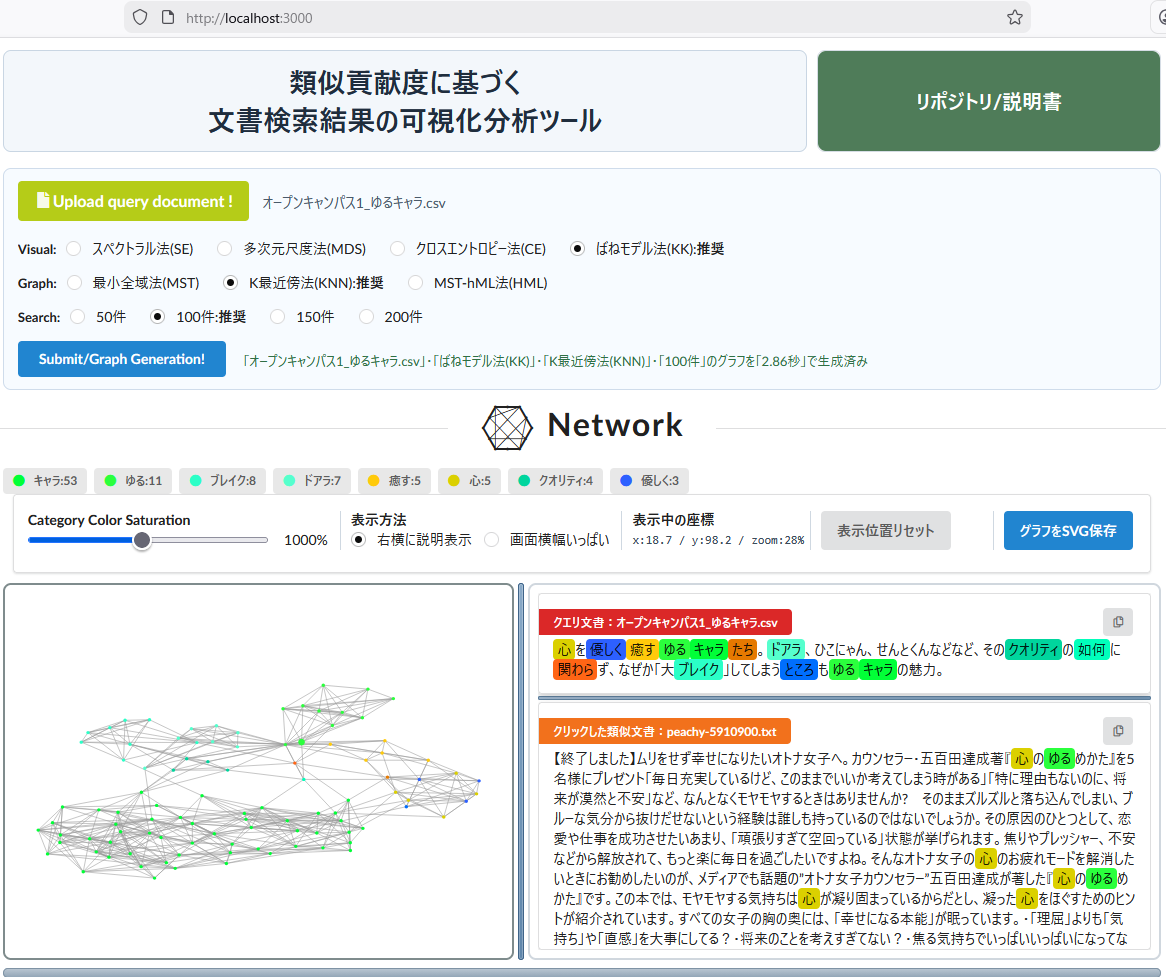
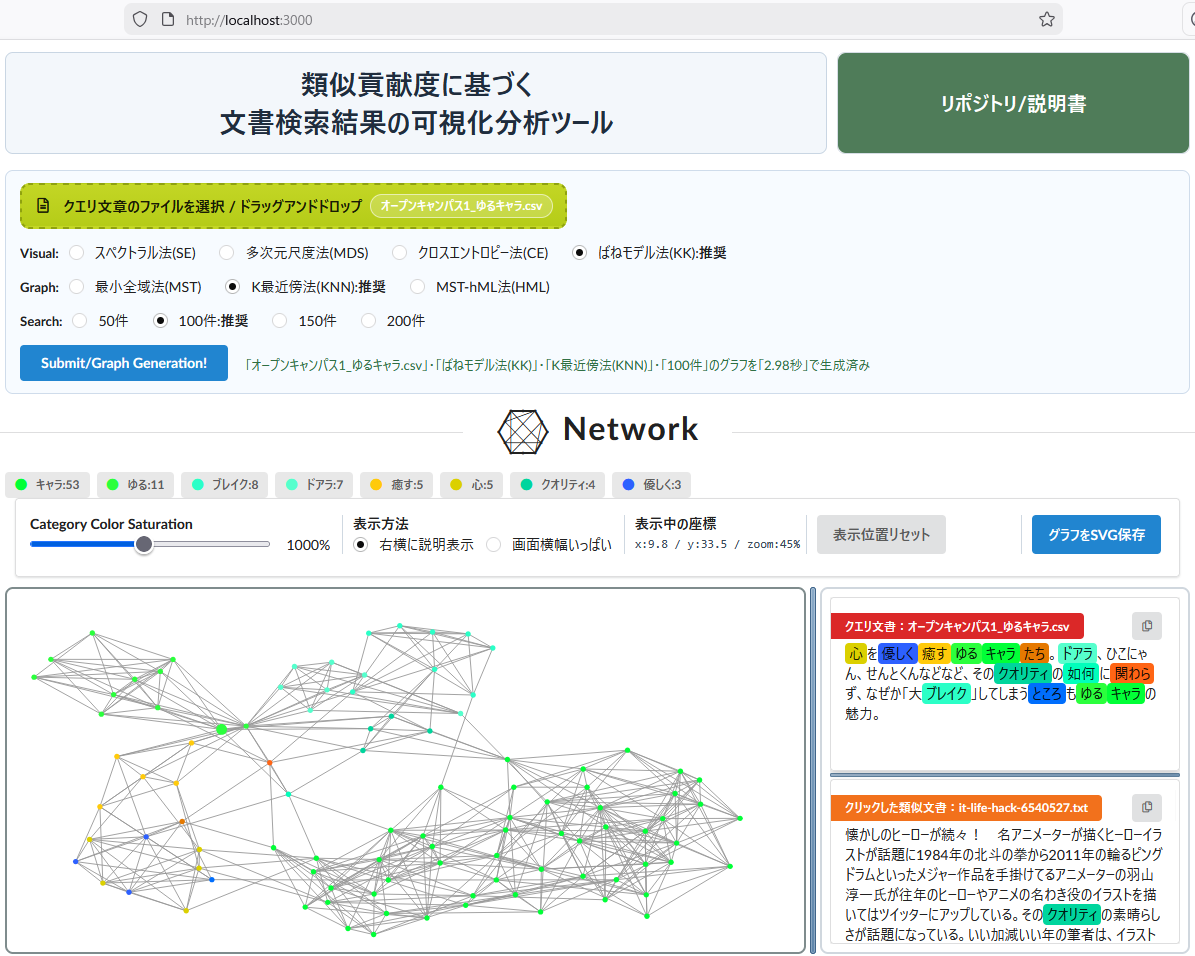
クエリ文章のアップロードでドラッグアンドドロップを可能に

Changed region(s): [[0.0, 0.0, 1.0, 1.0], [0.7719, 0.091, 0.9262, 0.1213]]

diff --git a/client/index.html b/client/index.html
@@ -99,18 +99,56 @@
                 width: auto !important;
                 min-width: 0 !important;
             }
-            .upload-button {
-                min-height: 46px;
-                padding: 12px 16px !important;
-                font-size: 16px !important;
-                display: inline-flex !important;
+            .upload-drop-zone {
+                margin-top: 4px;
+                border: 2px dashed #8fa20f;
+                border-radius: 10px;
+                background: linear-gradient(180deg, #c3d625 0%, #b5cc18 100%);
+                color: #ffffff;
+                padding: 9px 12px;
+                font-size: 13px;
+                line-height: 1.35;
+                user-select: none;
+                cursor: pointer;
+                transition: border-color 120ms ease, background 120ms ease, box-shadow 120ms ease;
+                display: inline-block;
+                width: fit-content;
+                max-width: 100%;
+            }
+            .upload-drop-main {
+                display: flex;
                 align-items: center;
+                justify-content: flex-start;
+                gap: 8px;
+                font-size: 15px;
+                font-weight: 700;
+            }
+            .upload-drop-main-left {
+                display: inline-flex;
+                align-items: center;
+                gap: 8px;
+                min-width: 0;
+            }
+            .upload-drop-sub {
+                margin-top: 2px;
+                color: rgba(255, 255, 255, 0.92);
+                font-size: 12px;
             }
             .upload-file-name {
-                margin-left: 10px;
-                font-size: 14px;
-                color: #4a5a6a;
-                vertical-align: middle;
+                display: inline-block;
+                background: rgba(255, 255, 255, 0.2);
+                border: 1px solid rgba(255, 255, 255, 0.55);
+                border-radius: 999px;
+                padding: 3px 10px;
+                font-size: 12px;
+                color: #ffffff;
+                white-space: nowrap;
+            }
+            .upload-drop-zone.is-dragover {
+                border-color: #75880b;
+                background: linear-gradient(180deg, #b8cc15 0%, #a4ba10 100%);
+                color: #ffffff;
+                box-shadow: 0 0 0 2px rgba(117, 136, 11, 0.28);
             }
             .generation-status {
                 margin-left: 10px;
@@ -564,12 +602,16 @@
             <!-- file uploader -->
             <form class="ui form" onsubmit="handleFormSubmit(event)">
                 <div class="field">
-                    <input type="file" id="template-invisible-upload" class="ui invisible file input">
-                    <label for="template-invisible-upload" class="ui olive icon button upload-button">
-                        <i class="file icon"></i>
-                        Upload query document !
+                    <input type="file" id="template-invisible-upload" class="ui invisible file input" accept=".csv,text/csv">
+                    <label for="template-invisible-upload" id="template-upload-drop-zone" class="upload-drop-zone">
+                        <div class="upload-drop-main">
+                            <span class="upload-drop-main-left">
+                                <i class="file alternate outline icon"></i>
+                                <span>クエリ文章のファイルを選択 / ドラッグアンドドロップ</span>
+                            </span>
+                            <span id="selected-file-name" class="upload-file-name">未選択</span>
+                        </div>
                     </label>
-                    <span id="selected-file-name" class="upload-file-name">未選択</span>
                 </div>
                 <!-- network selector -->
                 <div class="inline fields">
@@ -778,6 +820,7 @@
             let detachDocRatioSplitterHandlers = null;
             let viewCoordsState = { tx: 0, ty: 0, scale: 1 };
             let experimentCancelRequested = false;
+            let selectedUploadFile = null;
 
             function getNowIsoString()
             {
@@ -997,17 +1040,22 @@
 
             function getCurrentSelectedFileName()
             {
+                const file = getSelectedUploadFile();
+                return file ? file.name : "未選択";
+            }
+
+            function getSelectedUploadFile()
+            {
                 const fileInput = document.querySelector("#template-invisible-upload");
                 const file = fileInput && fileInput.files && fileInput.files[0] ? fileInput.files[0] : null;
-                return file ? file.name : "未選択";
+                return file || selectedUploadFile || null;
             }
 
             function updateExperimentReadyState()
             {
                 const workspace = document.querySelector(graphWorkspaceId);
                 if (!workspace) return;
-                const fileInput = document.querySelector("#template-invisible-upload");
-                const hasFile = Boolean(fileInput && fileInput.files && fileInput.files[0]);
+                const hasFile = Boolean(getSelectedUploadFile());
                 workspace.classList.toggle("is-experiment-ready", hasFile);
             }
 
@@ -1071,8 +1119,7 @@
                     return;
                 }
 
-                const fileInput = document.querySelector("#template-invisible-upload");
-                const file = fileInput && fileInput.files && fileInput.files[0] ? fileInput.files[0] : null;
+                const file = getSelectedUploadFile();
                 if (!file) {
                     alert("先にクエリ文書を選択してください。");
                     return;
@@ -2098,6 +2145,7 @@
                     boxForm.innerHTML  = '';
                     boxForm.appendChild(cloneForm);
                     bindUploadFileNameLabel();
+                    bindUploadDropZone();
                 }
             }
 
@@ -2119,12 +2167,67 @@
 
                 const renderFileName = () => {
                     const selected = fileInput.files && fileInput.files.length > 0 ? fileInput.files[0] : null;
+                    selectedUploadFile = selected || null;
                     nameLabel.textContent = selected ? selected.name : "未選択";
                     updateExperimentReadyState();
                     renderDebugPanel();
                 };
                 fileInput.addEventListener("change", renderFileName);
                 renderFileName();
+            }
+
+            function bindUploadDropZone()
+            {
+                const dropZone = document.querySelector("#template-upload-drop-zone");
+                const fileInput = document.querySelector("#template-invisible-upload");
+                const nameLabel = document.querySelector("#selected-file-name");
+                if (!dropZone || !fileInput || !nameLabel) return;
+
+                const setSelectedFile = (file) => {
+                    selectedUploadFile = file;
+                    nameLabel.textContent = file.name;
+                    try {
+                        const dt = new DataTransfer();
+                        dt.items.add(file);
+                        fileInput.files = dt.files;
+                    } catch (_) {
+                        // fileInput.files へ代入できない環境では selectedUploadFile を使用
+                    }
+                    updateExperimentReadyState();
+                    renderDebugPanel();
+                };
+
+                const preventDefaults = (event) => {
+                    event.preventDefault();
+                    event.stopPropagation();
+                };
+
+                dropZone.addEventListener("dragenter", (event) => {
+                    preventDefaults(event);
+                    dropZone.classList.add("is-dragover");
+                });
+                dropZone.addEventListener("dragover", (event) => {
+                    preventDefaults(event);
+                    dropZone.classList.add("is-dragover");
+                });
+                dropZone.addEventListener("dragleave", (event) => {
+                    preventDefaults(event);
+                    if (!dropZone.contains(event.relatedTarget)) {
+                        dropZone.classList.remove("is-dragover");
+                    }
+                });
+                dropZone.addEventListener("drop", (event) => {
+                    preventDefaults(event);
+                    dropZone.classList.remove("is-dragover");
+                    const files = event.dataTransfer && event.dataTransfer.files ? event.dataTransfer.files : null;
+                    if (!files || files.length === 0) return;
+                    const file = files[0];
+                    if (!/\.csv$/i.test(file.name)) {
+                        alert("CSVファイルをドロップしてください。");
+                        return;
+                    }
+                    setSelectedFile(file);
+                });
             }
 
             /* クエリ文書ロード画面の生成関数 */
@@ -2253,8 +2356,7 @@
                 applyGraphDisplayMode(selectedDisplayMode);
 
                 // 文書を取得
-                const templateInvisibleUpload = document.querySelector('#template-invisible-upload');
-                const fileContent = templateInvisibleUpload.files[0];
+                const fileContent = getSelectedUploadFile();
                 if (!fileContent) {
                     alert('文書ファイルを選択してください。');
                     setGenerationStatus("", false);
